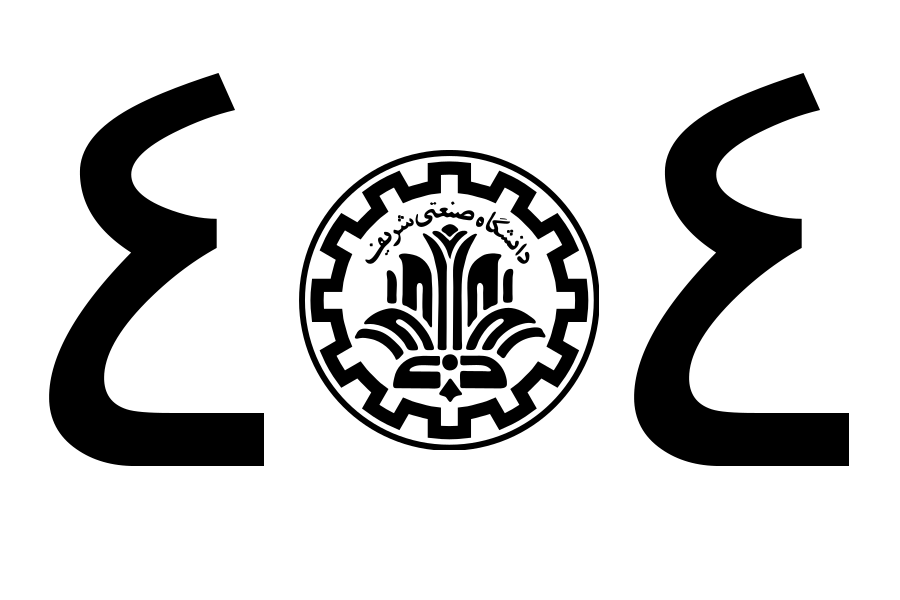
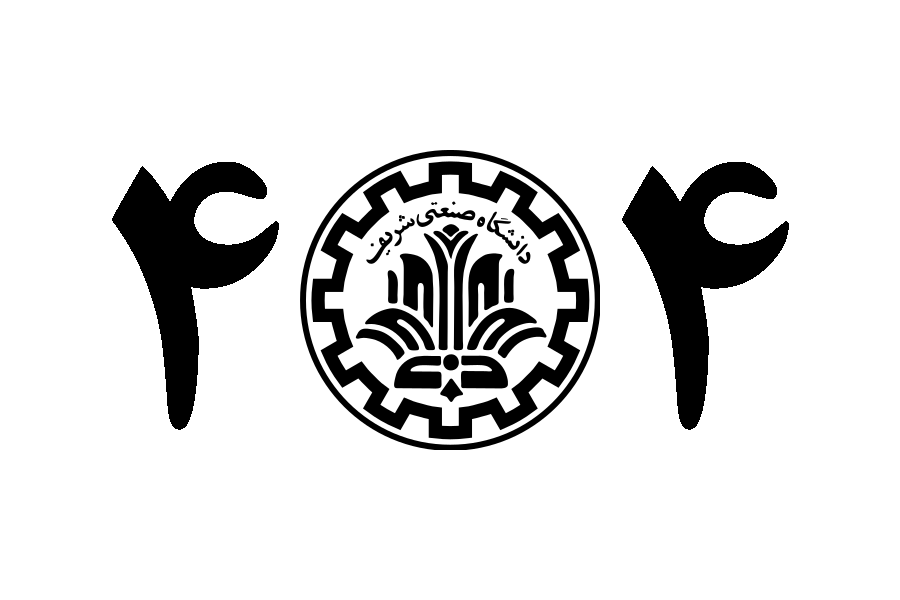
delivery version

diff --git a/imports/api/registrations/methods.js b/imports/api/registrations/methods.js
@@ -1,18 +1,18 @@
-import {Meteor} from "meteor/meteor";
-import {Registrations} from "./index";
-import {Courses} from "../courses";
-import {Students} from "../students/students";
-import {Roles} from "meteor/alanning:roles";
-import {ROLES} from "../../startup/roles";
+import { Meteor } from "meteor/meteor";
+import { Registrations } from "./index";
+import { Courses } from "../courses";
+import { Students } from "../students/students";
+import { Roles } from "meteor/alanning:roles";
+import { ROLES } from "../../startup/roles";
 
 Meteor.methods({
-  "registrations.add"({cid, group, sid}) {
+  "registrations.add"({ cid, group, sid }) {
     if (Roles.userIsInRole(Meteor.userId(), [ROLES.Assistant, ROLES.Student])) {
-      if (Students.findOne({sid: sid})) {
+      if (Students.findOne({ sid })) {
         if (
           Courses.findOne({
             cid: cid,
-            group: group,
+            group: group
           })
         ) {
           if (
@@ -20,8 +20,8 @@ Meteor.methods({
               cid: cid,
               group: group,
               $and: [
-                "this.reserveRegistered === this.reserveCapacity",
-                "this.registered === this.capacity"
+                {"this.reserveRegistered": "this.reserveCapacity"},
+                {"this.registered": "this.capacity"}
               ]
             })
           ) {
@@ -47,8 +47,8 @@ Meteor.methods({
                   placeInReservedQueue: 0
                 });
                 Courses.update(
-                  {cid: cid, group: group},
-                  {$inc: {registered: 1}}
+                  { cid: cid, group: group },
+                  { $inc: { registered: 1 } }
                 );
               } else if (
                 Courses.findOne({
@@ -63,11 +63,11 @@ Meteor.methods({
                   sid,
                   isReserved: true,
                   placeInReservedQueue:
-                    Registrations.find({isReserved: true}).count() + 1
+                    Registrations.find({ isReserved: true }).count() + 1
                 });
                 Courses.update(
-                  {cid: cid, group: group},
-                  {$inc: {reserveRegistered: 1}}
+                  { cid: cid, group: group },
+                  { $inc: { reserveRegistered: 1 } }
                 );
               }
             } else {
@@ -89,13 +89,13 @@ Meteor.methods({
     }
   },
 
-  "registrations.remove"({cid, group, sid}) {
+  "registrations.remove"({ cid, group, sid }) {
     if (Roles.userIsInRole(Meteor.userId(), [ROLES.Assistant, ROLES.Student])) {
-      if (Students.findOne({sid: sid})) {
+      if (Students.findOne({ sid: sid })) {
         if (
           Courses.findOne({
             cid: cid,
-            group: group,
+            group: group
           })
         ) {
           if (
@@ -121,13 +121,13 @@ Meteor.methods({
                 cid: cid,
                 group: group,
                 isReserved: true,
-                placeInReservedQueue: {$gt: thisPlaceInReservedQueue}
+                placeInReservedQueue: { $gt: thisPlaceInReservedQueue }
               },
-              {$inc: {placeInReservedQueue: -1}}
+              { $inc: { placeInReservedQueue: -1 } }
             );
             Courses.update(
-              {cid: cid, group: group},
-              {$inc: {reserveRegistered: -1}}
+              { cid: cid, group: group },
+              { $inc: { reserveRegistered: -1 } }
             );
           } else if (
             Registrations.findOne({
@@ -155,7 +155,7 @@ Meteor.methods({
                   group: group,
                   isReserved: true
                 },
-                {$inc: {placeInReservedQueue: -1}}
+                { $inc: { placeInReservedQueue: -1 } }
               );
               Registrations.update(
                 {
@@ -164,16 +164,16 @@ Meteor.methods({
                   isReserved: true,
                   placeInReservedQueue: 0
                 },
-                {$set: {isReserved: false}}
+                { $set: { isReserved: false } }
               );
               Courses.update(
-                {cid: cid, group: group},
-                {$inc: {reserveRegistered: -1}}
+                { cid: cid, group: group },
+                { $inc: { reserveRegistered: -1 } }
               );
             } else {
               Courses.update(
-                {cid: cid, group: group},
-                {$inc: {registered: -1}}
+                { cid: cid, group: group },
+                { $inc: { registered: -1 } }
               );
             }
           } else {
@@ -198,13 +198,13 @@ Meteor.methods({
     }
   },
 
-  "registrations.forceAdd"({cid, group, sid}) {
+  "registrations.forceAdd"({ cid, group, sid }) {
     if (Roles.userIsInRole(Meteor.userId(), [ROLES.Assistant])) {
-      if (Students.findOne({sid: sid})) {
+      if (Students.findOne({ sid: sid })) {
         if (
           Courses.findOne({
             cid: cid,
-            group: group,
+            group: group
           })
         ) {
           if (
@@ -223,17 +223,17 @@ Meteor.methods({
             });
             const course = Courses.findOne({
               cid: cid,
-              group: group,
+              group: group
             });
             if (course.registered < course.capacity) {
               Courses.update(
-                {cid: cid, group: group},
-                {$inc: {registered: 1}}
+                { cid: cid, group: group },
+                { $inc: { registered: 1 } }
               );
             } else {
               Courses.update(
-                {cid: cid, group: group},
-                {$inc: {registered: 1, capacity: 1}}
+                { cid: cid, group: group },
+                { $inc: { registered: 1, capacity: 1 } }
               );
             }
           } else if (
@@ -255,20 +255,20 @@ Meteor.methods({
                 group: group,
                 sid: sid
               },
-              {$set: {isReserved: false, placeInReservedQueue: 0}}
+              { $set: { isReserved: false, placeInReservedQueue: 0 } }
             );
             Registrations.update(
               {
                 cid: cid,
                 group: group,
                 isReserved: true,
-                placeInReservedQueue: {$gt: thisPlaceInReservedQueue}
+                placeInReservedQueue: { $gt: thisPlaceInReservedQueue }
               },
-              {$inc: {placeInReservedQueue: -1}}
+              { $inc: { placeInReservedQueue: -1 } }
             );
             Courses.update(
-              {cid: cid, group: group},
-              {$inc: {reserveRegistered: -1, registered: 1, capacity: 1}}
+              { cid: cid, group: group },
+              { $inc: { reserveRegistered: -1, registered: 1, capacity: 1 } }
             );
           } else {
             throw new Meteor.Error("This student already has this course.");
@@ -284,30 +284,25 @@ Meteor.methods({
     }
   },
 
-  "registrations.changeGroup"({
-                                cid,
-                                prevGroup,
-                                sid,
-                                newGroup
-                              }) {
+  "registrations.changeGroup"({ cid, prevGroup, sid, newGroup }) {
     if (Roles.userIsInRole(Meteor.userId(), [ROLES.Assistant, ROLES.Student])) {
-      if (Students.findOne({sid: sid})) {
+      if (Students.findOne({ sid: sid })) {
         if (
           Courses.findOne({
             cid: cid,
-            group: prevGroup,
+            group: prevGroup
           })
         ) {
           if (
             Courses.findOne({
               cid: cid,
-              group: newGroup,
+              group: newGroup
             })
           ) {
             if (prevGroup !== newGroup) {
               const course = Courses.findOne({
                 cid: cid,
-                group: newGroup,
+                group: newGroup
               });
               if (
                 !(

diff --git a/imports/ui/assistant/coursePanel/table/registrationTable.jsx b/imports/ui/assistant/coursePanel/table/registrationTable.jsx
@@ -61,21 +61,28 @@ class RegistrationTable extends Component {
     Meteor.call("registrations.add", {
       cid: course.cid,
       group: course.group,
-      credit: course.credit,
-      sid: this.refs.sid.state.value,
+      sid: this.sid.state.value
     });
   }
 
   render() {
     const { registrations } = this.props;
+    console.log(registrations);
     return registrations ? (
       <React.Fragment>
         <Form layout="inline">
           <Form.Item>
-            <Input type="text" ref="sid" />
+            <Input
+              type="text"
+              ref={c => {
+                this.sid = c;
+              }}
+            />
           </Form.Item>
           <Form.Item>
-            <Button type="primary" onClick={this.addStudent}>اضافهکردن</Button>
+            <Button type="primary" onClick={this.addStudent}>
+              اضافهکردن
+            </Button>
           </Form.Item>
         </Form>
         <Table

diff --git a/imports/ui/_global/403.js b/imports/ui/_global/403.js
@@ -22,8 +22,8 @@ class NotFound extends Component {
             transform: "translateY(-50%)"
           }}
         >
-          <img src="/images/404.png" style={{ maxWidth: "50vw" }} />
-          <h4 className="fa rtl">صفحهی مورد نظر یافت نشد.</h4>
+          <img src="/images/403.png" style={{ maxWidth: "50vw" }} />
+          <h4 className="fa rtl">شما نمیتوانید وارد این صفحه شوید.</h4>
           <h1 className="fa" onClick={this.back}>
             <a>برگشت</a>
           </h1>

diff --git a/imports/api/registrations/index.js b/imports/api/registrations/index.js
@@ -7,8 +7,7 @@ export const Registrations = new Mongo.Collection("registrations");
 Registrations.schema = new SimpleSchema({
   cid: { type: String, min: 5, max: 5 },
   group: { type: Number, optional: true },
-  credit: { type: Number, min: 0, max: 4, optional: true },
-  sid: { type: Number },
+  sid: { type: String },
   isReserved: { type: Boolean },
   placeInReservedQueue: { type: Number, optional: true },
   request: { type: String, optional: true },

diff --git a/imports/ui/assistant/coursePanel/drawer/index.jsx b/imports/ui/assistant/coursePanel/drawer/index.jsx
@@ -120,7 +120,7 @@ class DrawerForm extends Component {
             </Row>
             <Row gutter={16}>
               <Col span={24}>
-                <Form.Item label="ملاحضات">
+                <Form.Item label="ملاحظات">
                   <Input.TextArea
                     rows={4}
                     defaultValue={course.description}

diff --git a/imports/api/students/students.js b/imports/api/students/students.js
@@ -5,7 +5,7 @@ import "./methods";
 export const Students = new Mongo.Collection("students");
 
 Students.schema = new SimpleSchema({
-  sid: { type: Number },
+  sid: { type: String },
   name: { type: String },
   familyName: { type: String },
   rand: { type: Number },
